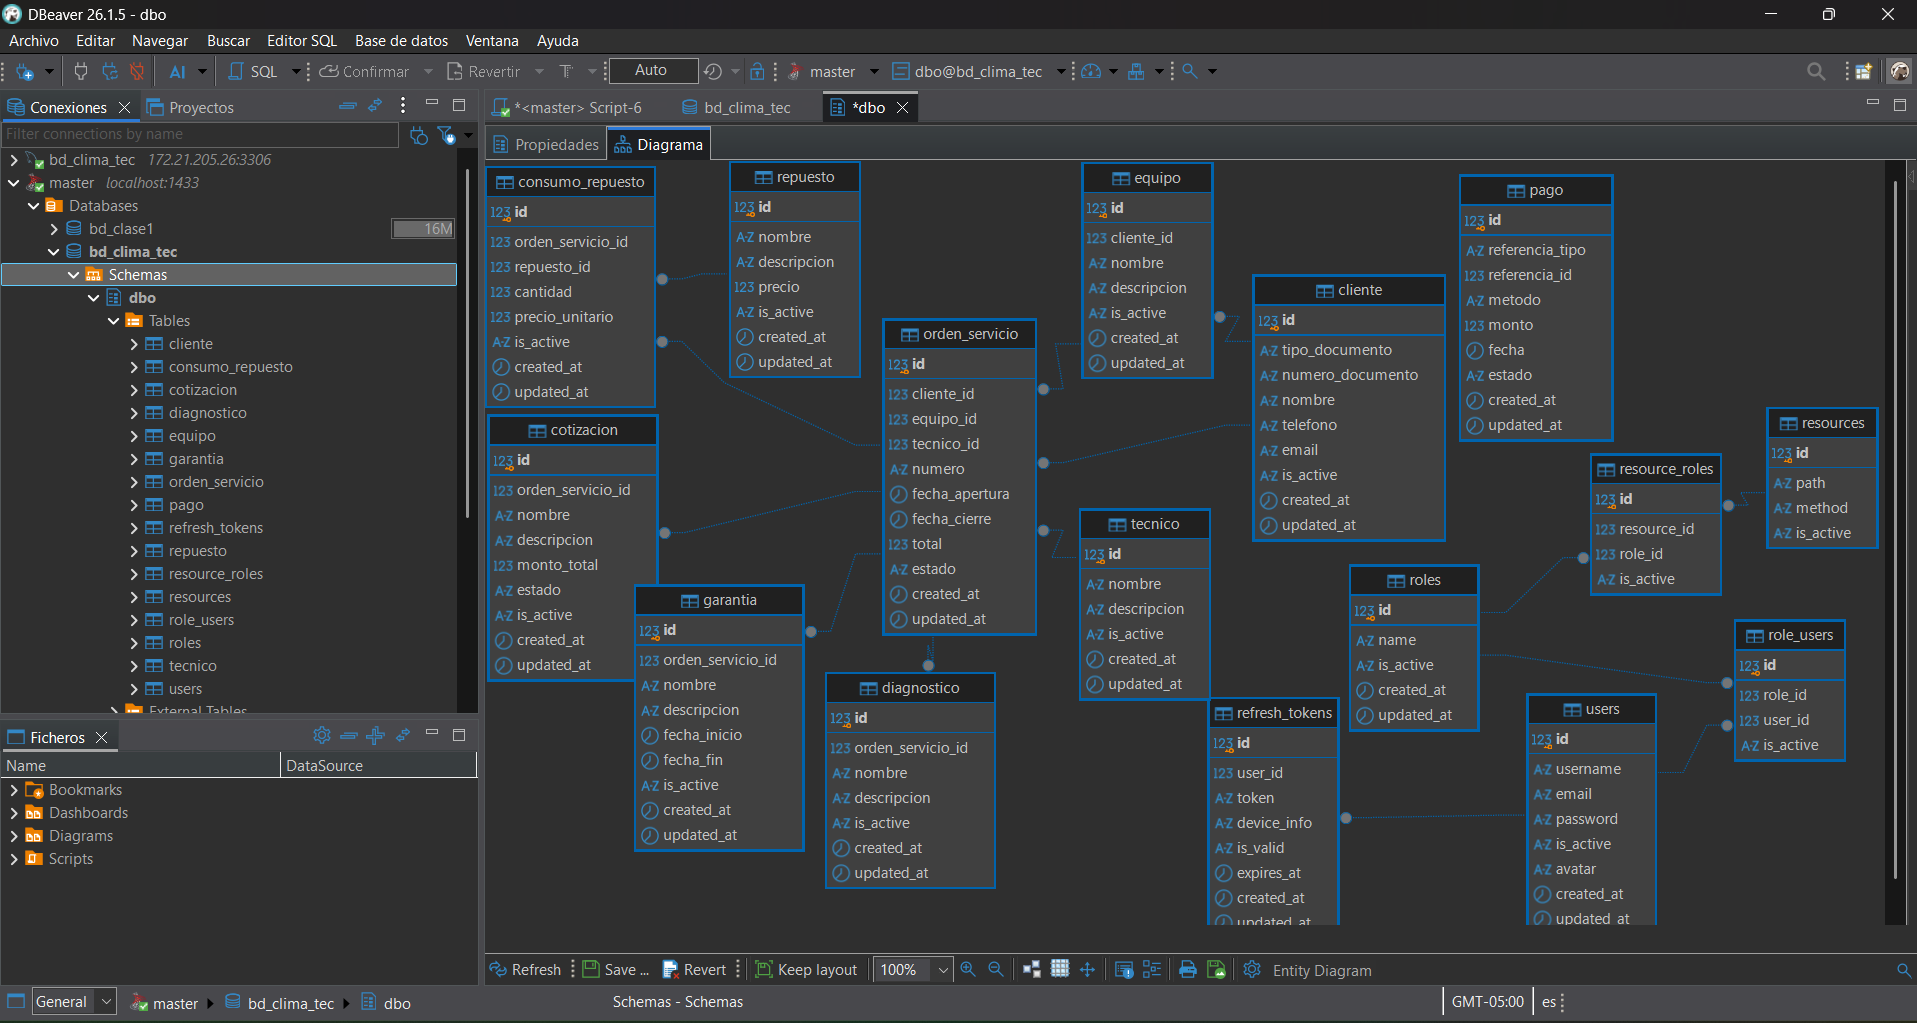
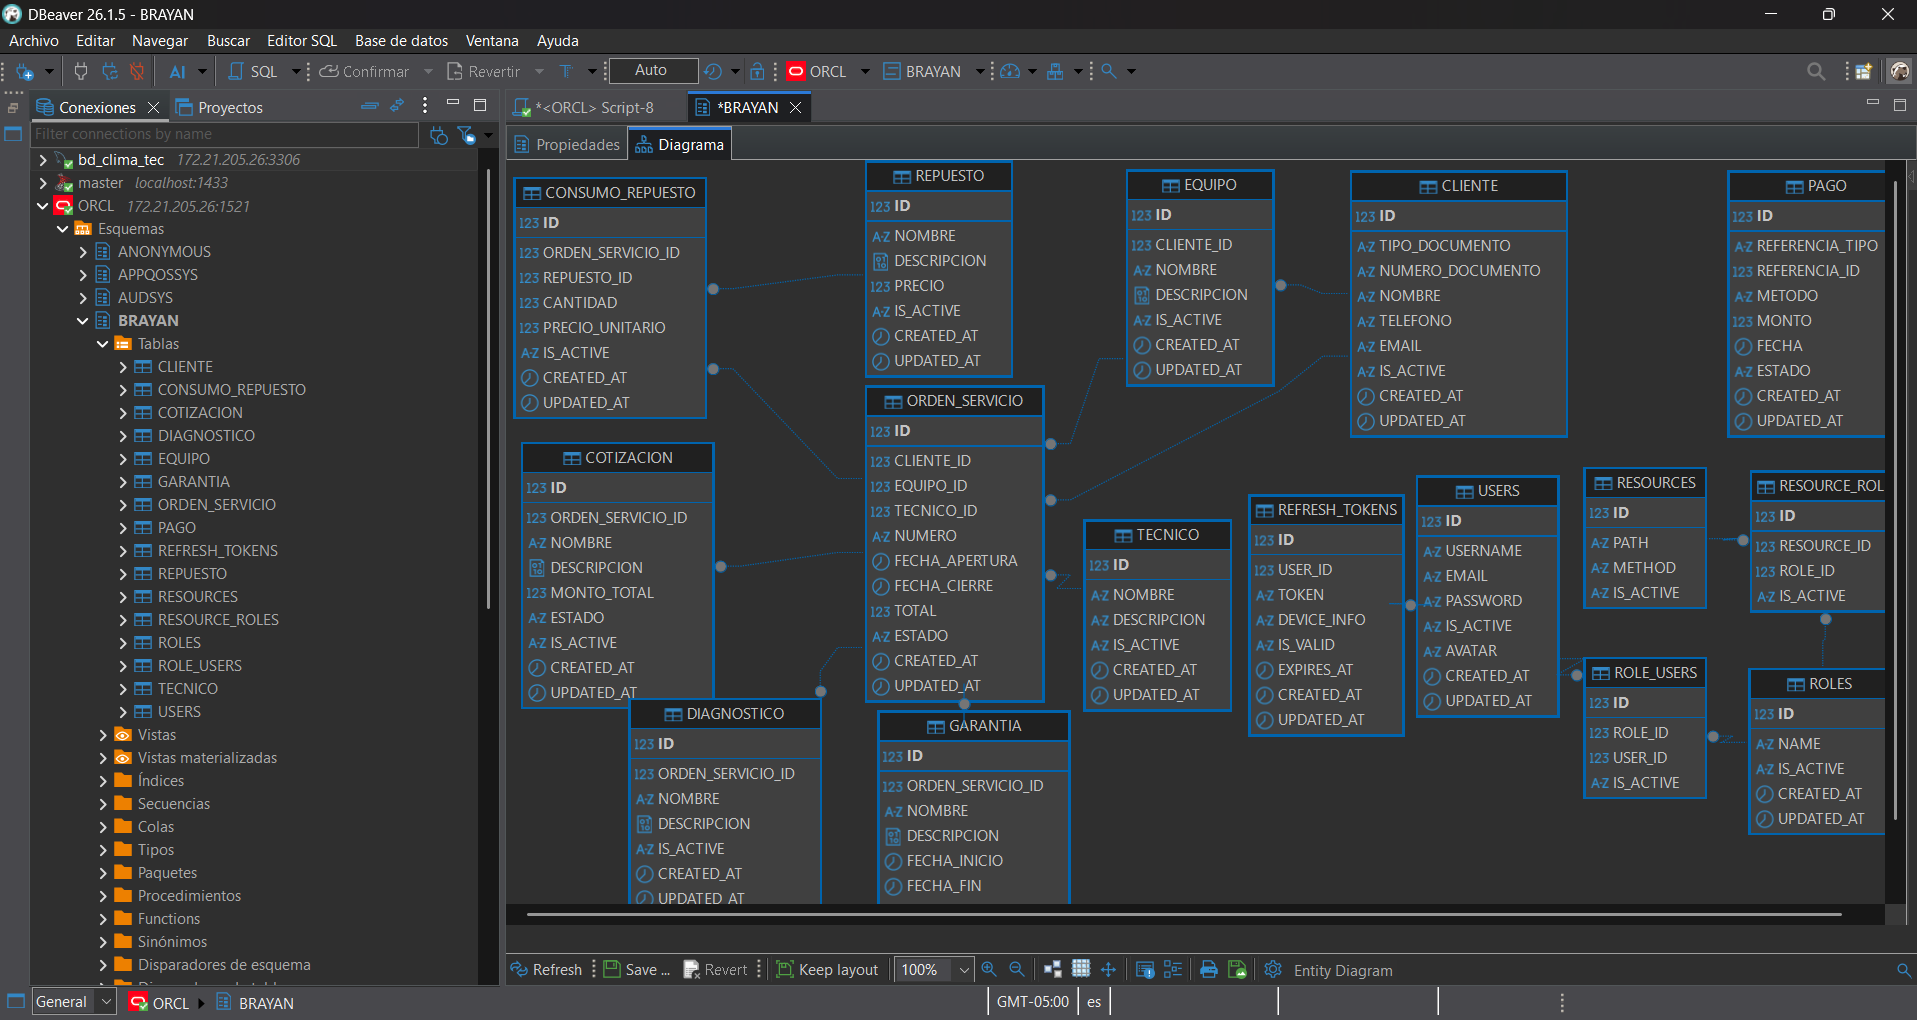
feat: DDL, DML y evidencias GUI completadas para Oracle XE (Motor 4)

diff --git a/Brayan/evidencias/04-oracle/README.md b/Brayan/evidencias/04-oracle/README.md
@@ -1,21 +1,26 @@
-# Evidencias de Oracle XE
+# Evidencias de Implementación: Oracle Database 21c XE (Motor 4)
+**Proyecto:** Proyecto 04 - ClimaTec  
+**Asignatura:** Base de Datos II  
+**Estudiante:** Brayan David Arévalo Luna  
 
-Cada captura se conserva con su nombre original. La columna **Razon** explica que paso demuestra.
+---
 
-| Captura|                                              | Razon de la evidencia |
-|---|---|
-| [173535](<Captura de pantalla 2026-08-25 173535.png>) | Inicio de la configuracion de Oracle XE. |
-| [174142](<Captura de pantalla 2026-08-25 174142.png>) | Preparacion de la conexion y comandos de Oracle. |
-| [174354](<Captura de pantalla 2026-08-25 174354.png>) | Verificacion previa del servicio Oracle. |
-| [205237](<Captura de pantalla 2026-08-25 205237.png>) | Creacion del `docker-compose.yml`, volumenes y regla UFW para el puerto `1521`. |
-| [205256](<Captura de pantalla 2026-08-25 205256.png>) | Firewall activo con los puertos de los cuatro motores permitidos. |
-| [205358](<Captura de pantalla 2026-08-25 205358.png>) | Archivo `.env` y `README.md` de Oracle XE. |
-| [205730](<Captura de pantalla 2026-08-25 205730.png>) | Diagnostico del primer arranque fallido por volumen sin las carpetas de datos de Oracle. |
-| [210234](<Captura de pantalla 2026-08-25 210234.png>) | Verificacion de volumenes montados en Oracle: datos persistentes y carpeta de respaldos. |
-| [210958](<Captura de pantalla 2026-08-25 210958.png>) | Prueba del arranque del contenedor Oracle. |
-| [211020](<Captura de pantalla 2026-08-25 211020.png>) | Ajustes durante la inicializacion de Oracle. |
-| [211147](<Captura de pantalla 2026-08-25 211147.png>) | Conexion como `SYS` y comienzo de la creacion del usuario Oracle. |
-| [211214](<Captura de pantalla 2026-08-25 211214.png>) | Usuario `BRAYAN` creado, permisos concedidos y conexion exitosa; no habia tablas aun. |
-| [211236](<Captura de pantalla 2026-08-25 211236.png>) | Consulta `ip a` que confirma la IP `172.21.205.26` para Oracle. |
-| [211300](<Captura de pantalla 2026-08-25 211300.png>) | Exportacion Data Pump corregida y completada; se genero `backup_tecnogua.dmp` de 304K. |
-| [213721](<Captura de pantalla 2026-08-25 213721.png>) | Resumen en DBeaver de las conexiones remotas: SQL Server `1433`, MySQL `3306`, PostgreSQL `5432` y Oracle `1521`. |
+## 1. Implementación DDL (Estructura de Base de Datos)
+Se ejecutó el script PL/SQL `04_ddl_dml_climatec.sql` creando las 16 tablas correspondientes dentro del esquema `BRAYAN`:
+- **Modelo RBAC:** `users`, `roles`, `role_users`, `resources`, `resource_roles`, `refresh_tokens`.
+- **Dominio ClimaTec:** `cliente`, `equipo`, `tecnico`, `orden_servicio`, `diagnostico`, `repuesto`, `consumo_repuesto`, `cotizacion`, `pago`, `garantia`.
+
+![Estructura DDL y Tablas](01_ddl_tablas.png)
+
+---
+
+## 2. Inserción Manual de Datos por Interfaz Gráfica (GUI)
+Se realizó la prueba de inserción manual desde DBeaver sobre la entidad `cliente`:
+
+1. **Borrador de Inserción (Pendiente por Commit):** Fila agregada manualmente en la grilla antes de aplicar los cambios (resaltada en verde).
+
+![Inserción Pendiente GUI](02_gui_insercion.png)
+
+2. **Confirmación de Cambios (Commit Guardado):** Transacción guardada mediante el botón `Confirmar` (`Ctrl + S`), persistiendo los datos de manera definitiva en Oracle XE.
+
+![Inserción Confirmada GUI](03_gui_insercion.png)
